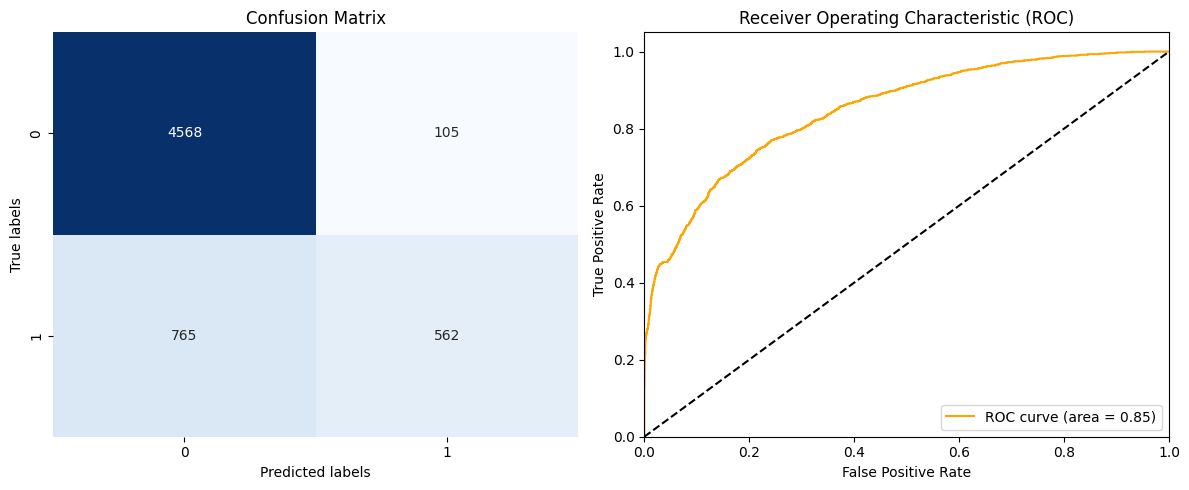
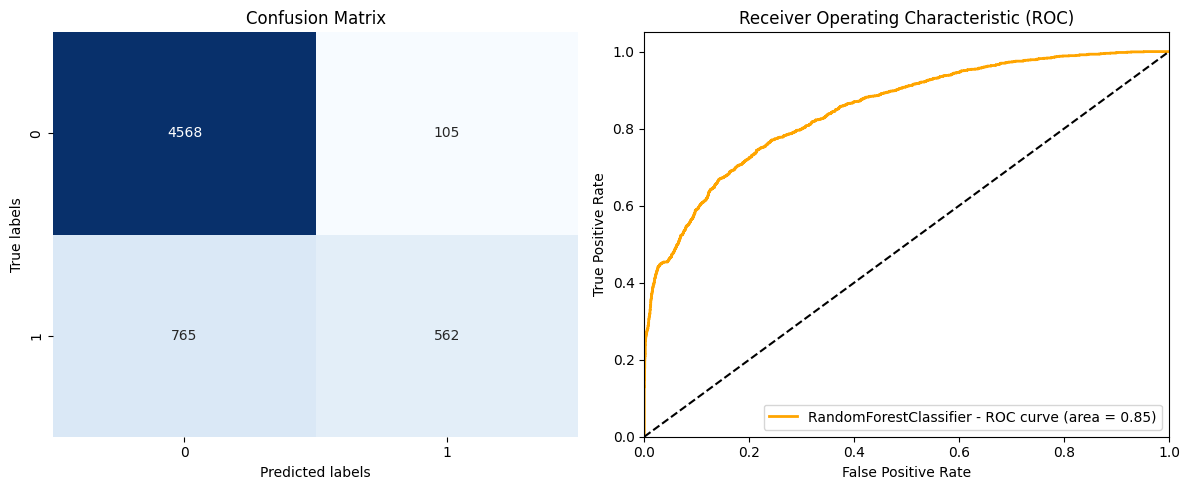
Rename_plot_best_model

diff --git a/risk_utils.py b/risk_utils.py
@@ -451,7 +451,10 @@ def metrics_best_model(pipeline, X_test, y_test):
     y_pred_proba = pipeline.predict_proba(X_test)[:, 1]
     fpr, tpr, thresholds = roc_curve(y_test_numeric, y_pred_proba)
     auc = roc_auc_score(y_test_numeric, y_pred_proba)
-    axes[1].plot(fpr, tpr, color='orange', label='ROC curve (area = %0.2f)' % auc)
+    # Obtenir le nom du modèle à partir du pipeline
+    model_name = pipeline.named_steps['model'].__class__.__name__
+    
+    axes[1].plot(fpr, tpr, color='orange', lw=2, label=f'{model_name} - ROC curve (area = %0.2f)' % auc)
     axes[1].plot([0, 1], [0, 1], 'k--')
     axes[1].set_xlim([0.0, 1.0])
     axes[1].set_ylim([0.0, 1.05])
